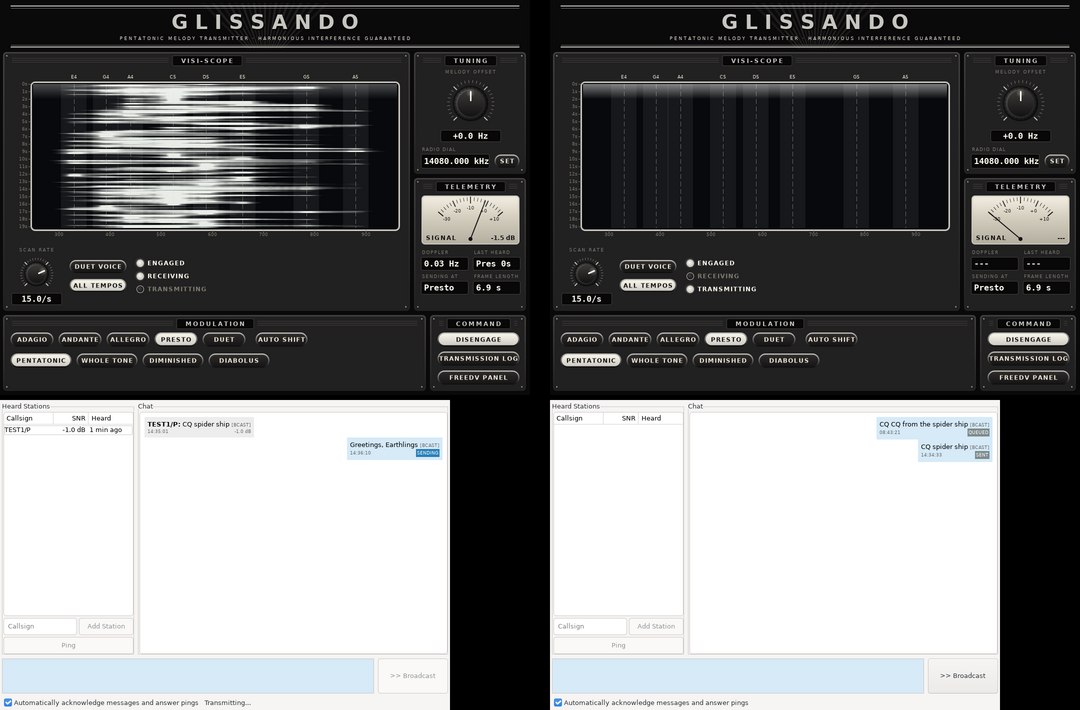
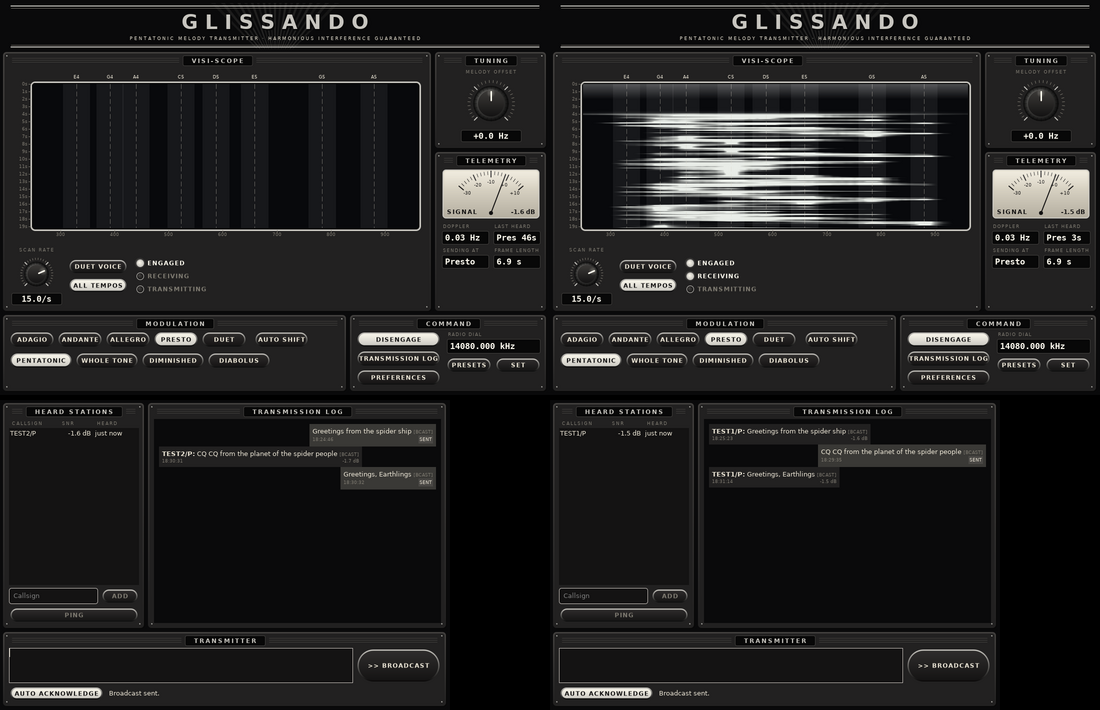
Glissando-only chat title, drop the console-open setting, update docs and bench
Claude-Session: https://claude.ai/code/session_01NRTv5g6psE8JD4u2E4Q1TG

diff --git a/app/src/config/FreeDVConfiguration.cpp b/app/src/config/FreeDVConfiguration.cpp
@@ -72,7 +72,6 @@ FreeDVConfiguration::FreeDVConfiguration()
     , halfDuplexMode("/Rig/HalfDuplex", true)
     , multipleReceiveEnabled("/Rig/MultipleRx", true)
     , textChatUsDataSegmentsOnly("/TextChat/UsDataSegmentsOnly", true)
-    , glissandoEnabled("/Glissando/Enabled", false)
     , glissandoGear("/Glissando/Gear", 3)
     , glissandoAutoGear("/Glissando/AutoGear", true)
     , glissandoScale("/Glissando/Scale", "pentatonic")
@@ -202,7 +201,6 @@ void FreeDVConfiguration::load(wxConfigBase* config)
     load_(config, halfDuplexMode);
     load_(config, multipleReceiveEnabled);
     load_(config, textChatUsDataSegmentsOnly);
-    load_(config, glissandoEnabled);
     load_(config, glissandoGear);
     load_(config, glissandoAutoGear);
     load_(config, glissandoScale);
@@ -299,7 +297,6 @@ void FreeDVConfiguration::save(wxConfigBase* config)
     save_(config, halfDuplexMode);
     save_(config, multipleReceiveEnabled);
     save_(config, textChatUsDataSegmentsOnly);
-    save_(config, glissandoEnabled);
     save_(config, glissandoGear);
     save_(config, glissandoAutoGear);
     save_(config, glissandoScale);

diff --git a/app/src/config/FreeDVConfiguration.h b/app/src/config/FreeDVConfiguration.h
@@ -85,11 +85,9 @@ public:
     // default: an operator elsewhere turns it off.
     ConfigurationDataElement<bool> textChatUsDataSegmentsOnly;
 
-    // The Glissando console and the melodic chirp mode it drives. When
-    // glissandoEnabled is set, text chat goes out as Glissando instead of
-    // over the codec2 data modes. Tuning offset and scan rate are stored in
-    // tenths (Hz, rows per second) so they fit the integer config type.
-    ConfigurationDataElement<bool> glissandoEnabled;
+    // The Glissando console and the melodic chirp mode it drives. Tuning
+    // offset and scan rate are stored in tenths (Hz, rows per second) so
+    // they fit the integer config type.
     ConfigurationDataElement<int> glissandoGear;
     ConfigurationDataElement<bool> glissandoAutoGear;
     ConfigurationDataElement<wxString> glissandoScale;

diff --git a/app/src/ongui.cpp b/app/src/ongui.cpp
@@ -138,7 +138,7 @@ void MainFrame::OnToolsTextMessaging(wxCommandEvent&)
     // Picks up history, the current callsign and anything heard while the
     // window was closed.
     m_textMessagingDialog->refreshFromSession();
-    m_textMessagingDialog->SetTitle(m_glissandoConsole != nullptr ? _("Glissando Chat") : _("FreeDV Text Chat"));
+    m_textMessagingDialog->SetTitle(_("Glissando Chat"));
     m_textMessagingDialog->Show();
     m_textMessagingDialog->Iconize(false);
     m_textMessagingDialog->Raise();

diff --git a/docs/APP.md b/docs/APP.md
@@ -15,9 +15,11 @@ that the modem's tests are checked against.
 `app/COPYING` (LGPL 2.1) covers everything under `app/`. The rest of this
 repository, `modem/` included, is MIT (`LICENSE`).
 
-It is the Glissando app, not a FreeDV release, and it does not carry RADE. The FreeDV voice modes left are the codec2 ones (700D, 700E and
-1600), always shown in the main window's Mode box, and text chat runs over
-either codec2's DATAC13/DATAC4 data modes or Glissando. The shared
+It is the Glissando app, not a FreeDV release. Voice is outside its scope:
+it has no voice controls, no FreeDV main window, no FreeDV Reporter and no
+FreeDV Help menu, and text chat runs over Glissando. It does not carry RADE
+either. The codec2 code is still built in underneath, since the audio
+pipeline it came with is organised around it. The shared
 [freedv-backend](https://github.com/tmiw/freedv-backend) library is no
 longer fetched at configure time: `app/backend/` holds a copy of it with RADE,
 RADE text, FARGAN and the Opus bandwidth expander taken out (see
@@ -36,7 +38,7 @@ Then, from the top of the repository:
 
     cmake -S app -B build -DUSE_NATIVE_AUDIO=1 -DUNITTEST=ON
     cmake --build build -j
-    ./build/src/freedv --glissando
+    ./build/src/freedv
 
 The first configure fetches libsamplerate and RNNoise (from GitHub, and the
 RNNoise model from media.xiph.org). `ctest --test-dir build -R
@@ -44,19 +46,18 @@ RNNoise model from media.xiph.org). `ctest --test-dir build -R
 
 ## Two floating windows
 
-* **The console** (`Tools -> Glissando Console...`, or start FreeDV with
-  `--glissando`). The visi-scope waterfall, tuning, and the mode's
-  modulation options, dressed as Chaotica's control room from the Captain
-  Proton holonovel.
-* **The chat window** (`Transmission log` on the console, or
-  `Tools -> Text Chat...`). The existing text chat UI, unchanged, in its own
-  window.
+Both open at launch:
 
-While the console is open, text chat goes out as Glissando instead of over
-the codec2 DATAC13/DATAC4 modes. Closing the console puts chat back on
-codec2. With `--glissando` the console stands in for FreeDV's main window,
-which is hidden (the `FreeDV panel` button brings it back for audio and rig
-setup), and closing the console quits.
+* **The console**, the application's window: the visi-scope waterfall,
+  tuning, the mode's modulation options, the radio's dial and the setup
+  dialogs, dressed as Chaotica's control room from the Captain Proton
+  holonovel. Closing it quits.
+* **The chat window** ("Glissando Chat"): heard stations, the transmission
+  log and the transmitter, in the same dress. Closing it only hides it;
+  `Transmission log` on the console brings it back.
+
+`--glissando` is still accepted, so older scripts keep working, but it no
+longer changes anything.
 
 ## Controls
 
@@ -67,12 +68,14 @@ setup), and closing the console quits.
 | Duet voice | Widens the scope to show the duet gear's high voice (C6..E7). |
 | All tempos | Decode every gear at once, so a station that shifts gear is still heard. Off: only the chosen gear (and the one automatic shifting picked). |
 | Melody offset | Moves every note by up to +/-250 Hz, on transmit and receive: the audio equivalent of the tuning dial. |
-| Radio dial | Shows and sets the rig frequency through FreeDV's own frequency box, so rig control and the US data segment check follow it. |
+| Radio dial | Shows the rig frequency. `Presets` drops down the frequency list (edited in Preferences, Options) and `Set` takes a typed one. Rig control and the US data segment check follow it. |
 | Tempo | Adagio (640 ms notes, 55 s frame), Andante, Allegro, Presto (80 ms, 7 s), Duet (two voices, two payloads per frame). |
 | Auto shift | Picks the fastest gear the SNR and Doppler spread measured on the last frame heard support (`recommendGear`, the prototype's table with 2 dB margin). The hand-picked tempo stays lit and is used until something is heard, and again 15 minutes after the last frame. |
 | Scale | Pentatonic (default, harmonious when stations overlap), whole tone, diminished, diabolus (tritones). The scale costs nothing in sensitivity (DESIGN.md 3.1a). |
 | Telemetry | SNR meter, Doppler spread, tempo of the last frame and how long ago, tempo we would send at, and that tempo's frame length. |
-| Engage | Starts and stops audio, as the main window's Start button does. |
+| Engage | Starts and stops audio. |
+| Transmission log | Brings the chat window back if it was closed. |
+| Preferences | Drops down Options, Sound cards, Rig control (CAT and PTT), Audio filters and Easy setup. Sound cards, rig control and easy setup only change while disengaged. |
 
 Settings live in the FreeDV config under `[Glissando]`.
 
@@ -118,14 +121,14 @@ scales and tuning offsets in noise.
 
 The text chat loopback bench runs Glissando too:
 
-    FREEDV_EXTRA_ARGS=--glissando app/test/test_text_chat_loopback.sh up
+    app/test/test_text_chat_loopback.sh up
 
-Press Engage in both consoles, open both Transmission logs and send.
+Press Engage in both consoles and send from either chat window.
 
-![Two stations on the loopback bench: A (left) hearing B's broadcast at Presto on the visi-scope, both chat windows below](images/glissando-bench.png)
+![Two stations on the loopback bench: B (right) hearing A's reply at Presto on the visi-scope, both chat windows below with the conversation both ways](images/glissando-bench.png)
 
 ## Packaging
 
 `app/appimage/make-appimage.sh` already carries the console, since it is
 part of the `freedv` binary. A Glissando-first AppImage needs a desktop
-entry that runs `freedv --glissando`, an icon, and a CI job to build it.
+entry that runs `freedv`, an icon, and a CI job to build it.
